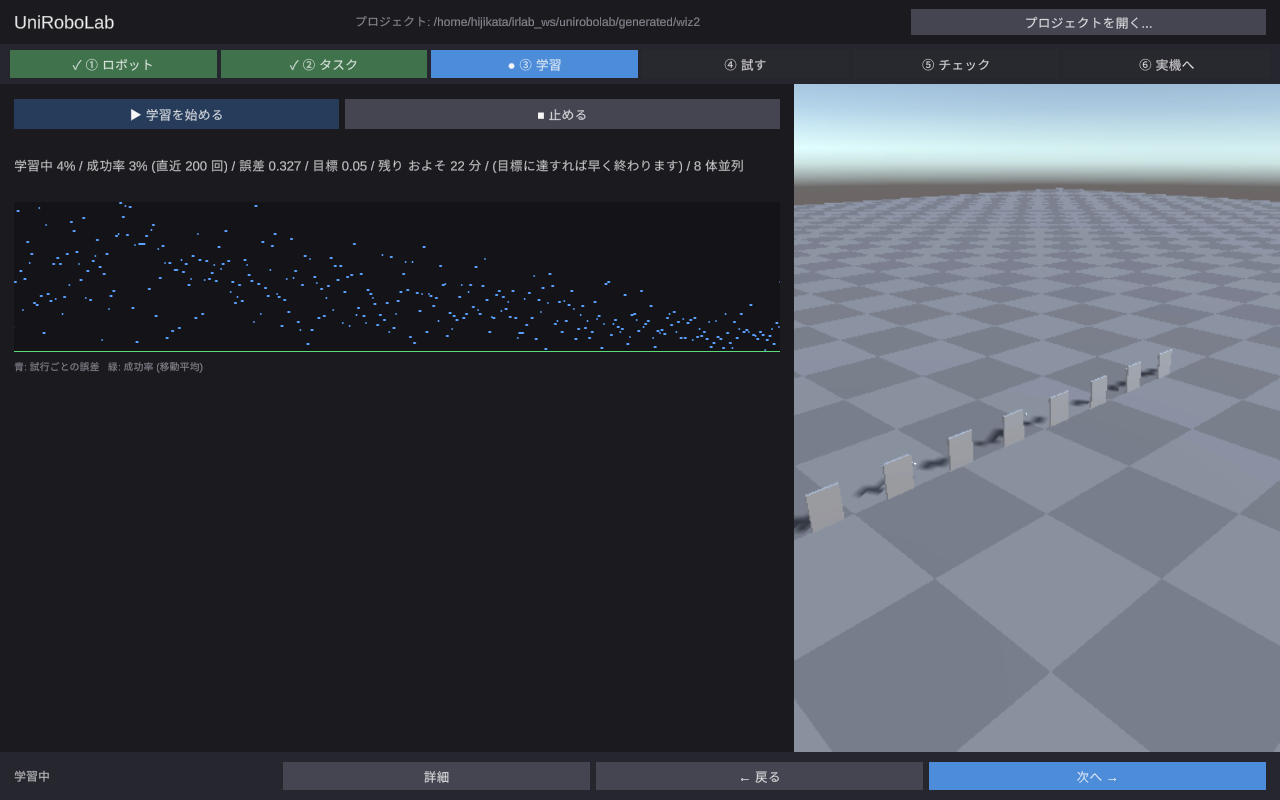
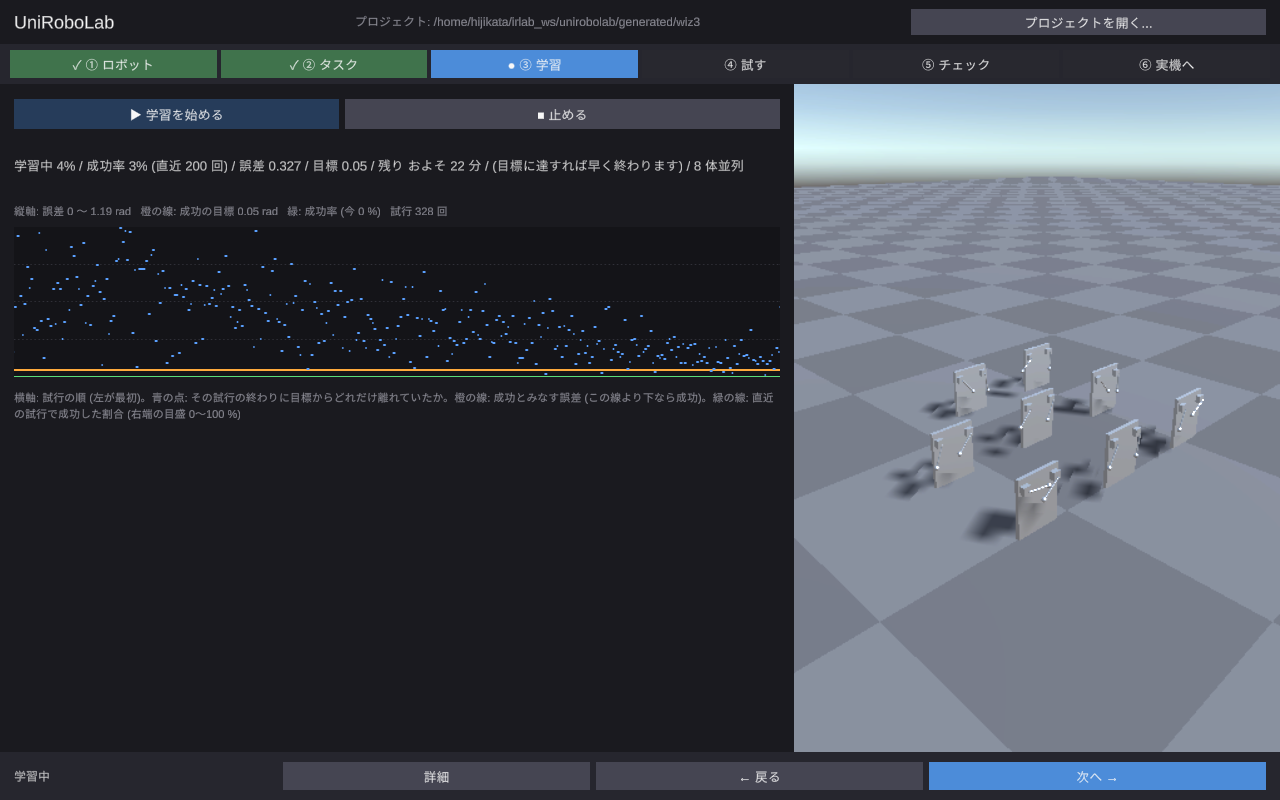
[change] 開始の位置と向きをタスク設定に (①〜⑤ で共通、既定 180°)、学習は 3×3 の格子、グラフに目標線と説明、学習器の出力を train.log に
- ② に開始の x, y, 向きの入力。プレビュー・学習 (--spawn-origin/--spawn-yaw)・試す・チェック (SPAWN_X/Y/YAW) が同じ姿勢を使う
- ③ のグラフ: 橙の線 = 成功とみなす誤差、縦軸は目標の 5 倍まで、成功率は許容誤差で判定 (関節目標でも出る)、軸の説明を上下に
- 学習器の出力を <run>/train.log に残す。起動時に入れないフェーズを指定された場合の例外を修正
- docs/tutorial.md と画面 (docs/images/tutorial2) を更新

diff --git a/unity/UniRoboLab/Assets/UniRoboLab/Scripts/PhaseTrain.cs b/unity/UniRoboLab/Assets/UniRoboLab/Scripts/PhaseTrain.cs
@@ -13,11 +13,12 @@ public class PhaseTrain : Phase
     public override string Title => Ui.T("③ 学習", "3 Train");
 
     Button m_Start, m_Stop, m_Back2;
-    TMP_Text m_Progress, m_Log, m_Hint;
+    TMP_Text m_Progress, m_Log, m_Hint, m_AxisTop, m_AxisBottom;
     RawImage m_Curve; Texture2D m_CurveTex; int m_CurvePoints;
     ExternalProcess m_Train, m_StatusProc;
     string m_RunDir; float m_StatusNextAt; bool m_Finished;
     readonly StringBuilder m_LogBuf = new StringBuilder();
+    StreamWriter m_LogFile;   // <run>/train.log: 学習器の出力を残す (失敗の原因を後で追える)
 
     public override void Build(RectTransform main, RectTransform details)
     {
@@ -27,9 +28,12 @@ public class PhaseTrain : Phase
         m_Stop = Ui.Btn(r.transform, Ui.T("■ 止める", "■ Stop"), StopTraining, 110f, 30f);
         Ui.SetBtn(m_Start, null, Ui.BtnActive);
         m_Progress = Ui.Label(Root.transform, "", 13f, Ui.Text, true, 60f);
+        m_AxisTop = Ui.Label(Root.transform, "", 11f, Ui.Muted);
         m_CurveTex = Ui.DarkTexture(560, 150);
         m_Curve = Ui.Image(Root.transform, m_CurveTex, 150f);
-        Ui.Label(Root.transform, Ui.T("青: 試行ごとの誤差   緑: 成功率 (移動平均)", "blue: error per attempt   green: success rate (moving average)"), 10f, Ui.Muted);
+        m_AxisBottom = Ui.Label(Root.transform, "", 11f, Ui.Muted, true, 46f);
+        m_AxisBottom.text = Ui.T("横軸: 試行の順 (左が最初)。青の点: その試行の終わりに目標からどれだけ離れていたか。橙の線: 成功とみなす誤差 (この線より下なら成功)。緑の線: 直近の試行で成功した割合 (右端の目盛 0〜100 %)",
+                                "x: attempts in order (first on the left). Blue dots: distance from the goal at the end of each attempt. Orange line: the error that counts as success (below it = success). Green line: share of recent attempts that succeeded (right scale 0-100 %)");
         m_Hint = Ui.Label(Root.transform, "", 12f, Ui.Warn, true, 44f);
         m_Back2 = Ui.Btn(Root.transform, Ui.T("② に戻って条件を変える", "Back to step 2 to change the task"), () => W.GoTo(1, false), 260f, 26f);
         m_Back2.gameObject.SetActive(false);
@@ -77,15 +81,23 @@ public class PhaseTrain : Phase
         cmd.Append(W.Py).Append(" -u -m unirobolab train ").Append(ExternalProcess.Quote(P.Abs(P.D.contract)))
            .Append(" --config ").Append(ExternalProcess.Quote(P.Abs(P.D.train))).Append(" --out ").Append(ExternalProcess.Quote(m_RunDir))
            .Append(" --transport direct --port ").Append(Env.LearningPort()).Append(" --n-envs ").Append(Mathf.Max(1, spec.training.n_envs))
-           .Append(" --spawn-urdf ").Append(ExternalProcess.Quote(P.Abs(P.D.urdf))).Append(" --spawn-spacing 0.6 2>&1");
+           .Append(" --spawn-urdf ").Append(ExternalProcess.Quote(P.Abs(P.D.urdf))).Append(" --spawn-spacing 0.6 --spawn-layout grid --spawn-yaw ").Append(W.StartYawRad.ToString("F5"))
+           .Append(" --spawn-origin ").Append(W.StartX.ToString("F3")).Append(' ').Append(W.StartY.ToString("F3")).Append(" 2>&1");
+        Directory.CreateDirectory(m_RunDir);
+        try { m_LogFile?.Dispose(); m_LogFile = new StreamWriter(Path.Combine(m_RunDir, "train.log"), false) { AutoFlush = true }; m_LogFile.WriteLine("$ " + cmd); } catch (Exception) { m_LogFile = null; }
         m_Train = W.Launch(cmd.ToString());
         m_Finished = false; m_CurvePoints = 0; m_StatusNextAt = 0f; m_LogBuf.Clear(); m_Hint.text = ""; m_Back2.gameObject.SetActive(false);
         m_Progress.text = Ui.T("学習を始めています...", "starting...");
         m_Start.interactable = false;
         W.Status(Ui.T("学習中", "training"));
         var cam = Camera.main != null ? Camera.main.GetComponent<LabCamera>() : null;
-        // 学習器は ROS の y 方向 (= Unity の -x) に 0.6 m 間隔で並べる。列の中央を狙う
-        if (cam != null) { cam.target = new Vector3(-0.6f * (spec.training.n_envs - 1) * 0.5f, 0.15f, 0f); cam.distance = 1.0f + 0.55f * spec.training.n_envs; }
+        // 学習器は 0.6 m 間隔の格子 (ceil(sqrt(n)) 列; ROS x = Unity z, ROS y = Unity -x) に並べる。格子の中央を狙う
+        if (cam != null)
+        {
+            int n = Mathf.Max(1, spec.training.n_envs); int cols = Mathf.CeilToInt(Mathf.Sqrt(n)); int rows = Mathf.CeilToInt(n / (float)cols);
+            cam.target = new Vector3(-W.StartY - 0.6f * (cols - 1) * 0.5f, 0.15f, W.StartX + 0.6f * (rows - 1) * 0.5f);
+            cam.distance = 1.2f + 0.7f * Mathf.Max(cols, rows);
+        }
     }
 
     public void StopTraining()
@@ -99,11 +111,13 @@ public class PhaseTrain : Phase
     {
         if (m_Train != null)
         {
-            while (m_Train.TryDequeue(out string l)) { m_LogBuf.AppendLine(l); if (m_LogBuf.Length > 6000) m_LogBuf.Remove(0, 2000); }
+            while (m_Train.TryDequeue(out string l)) { m_LogBuf.AppendLine(l); m_LogFile?.WriteLine(l); if (m_LogBuf.Length > 6000) m_LogBuf.Remove(0, 2000); }
             if (m_Log != null && m_Log.gameObject.activeInHierarchy) m_Log.text = m_LogBuf.ToString();
             if (m_Train.HasExited)
             {
+                m_Train.WaitForExit(); while (m_Train.TryDequeue(out string l2)) { m_LogBuf.AppendLine(l2); m_LogFile?.WriteLine(l2); }
                 int code = m_Train.ExitCode; m_Train = null; m_Start.interactable = true;
+                m_LogFile?.WriteLine($"[exit {code}]"); m_LogFile?.Dispose(); m_LogFile = null;
                 if (code == 0 && File.Exists(Path.Combine(m_RunDir, "policy.onnx")))
                 {
                     P.D.run_dir = P.Rel(m_RunDir); P.Stamp("run"); P.Save(); m_Finished = true;
@@ -167,12 +181,17 @@ public class PhaseTrain : Phase
         catch (IOException) { return; }
         if (err.Count == 0 || err.Count == m_CurvePoints) return;
         m_CurvePoints = err.Count;
+        TaskSpec spec = TaskSpec.Load(P.Abs(P.D.task));
+        float tol = spec.Goal0.tolerance > 0f ? spec.Goal0.tolerance : 0.05f;
+        // 成功 = 許容誤差以内 (status.py と同じ定義。CSV の success 列は地点到達の学習器だけが立てる)
+        bool anyFlag = false; foreach (float f in suc) if (f > 0f) { anyFlag = true; break; }
+        if (!anyFlag) for (int i = 0; i < suc.Count; i++) suc[i] = err[i] <= tol ? 1f : 0f;
         int win = Mathf.Max(10, err.Count / 10);
         var rate = new List<float>(err.Count); float acc = 0f;
         for (int i = 0; i < suc.Count; i++) { acc += suc[i]; if (i >= win) acc -= suc[i - win]; rate.Add(acc / Mathf.Min(win, i + 1)); }
         int w = m_CurveTex.width, h = m_CurveTex.height;
         var px = new Color32[w * h]; for (int i = 0; i < px.Length; i++) px[i] = new Color32(20, 20, 24, 255);
-        void Plot(List<float> v, Color32 c, float lo, float hi)
+        void Plot(List<float> v, Color32 c, float lo, float hi, int thick)
         {
             if (hi - lo < 1e-6f) hi = lo + 1e-6f;
             for (int x = 0; x < w; x++)
@@ -180,12 +199,21 @@ public class PhaseTrain : Phase
                 int i0 = x * v.Count / w, i1 = Mathf.Min(v.Count, (x + 1) * v.Count / w); if (i1 <= i0) i1 = i0 + 1;
                 float m = 0f; for (int i = i0; i < i1 && i < v.Count; i++) m += v[i]; m /= (i1 - i0);
                 int y = Mathf.Clamp((int)((m - lo) / (hi - lo) * (h - 1)), 0, h - 1);
-                px[y * w + x] = c; if (y > 0) px[(y - 1) * w + x] = c;
+                for (int t = 0; t < thick; t++) if (y - t >= 0) px[(y - t) * w + x] = c;
             }
         }
-        float eHi = 0f; foreach (float e in err) eHi = Mathf.Max(eHi, e);
-        Plot(rate, new Color32(90, 220, 120, 255), 0f, 1f); Plot(err, new Color32(90, 160, 255, 255), 0f, eHi);
+        // 縦軸: 誤差 0 〜 eHi。目標付近が見えるように上限は目標の 5 倍まで (それより大きい初期の誤差は上端に張り付く)
+        float eMax = 0f; foreach (float e in err) eMax = Mathf.Max(eMax, e);
+        float eHi = Mathf.Clamp(eMax, tol * 3f, tol * 5f);
+        for (int gy = 1; gy < 4; gy++) { int y = gy * h / 4; for (int x = 0; x < w; x += 3) px[y * w + x] = new Color32(50, 50, 58, 255); }   // 薄い横罫線
+        int yTol = Mathf.Clamp((int)(tol / eHi * (h - 1)), 0, h - 1);
+        for (int x = 0; x < w; x++) { px[yTol * w + x] = new Color32(255, 170, 60, 255); if (yTol + 1 < h) px[(yTol + 1) * w + x] = new Color32(255, 170, 60, 255); }
+        Plot(rate, new Color32(90, 220, 120, 255), 0f, 1f, 3); Plot(err, new Color32(90, 160, 255, 255), 0f, eHi, 2);
         m_CurveTex.SetPixels32(px); m_CurveTex.Apply();
+        bool isBase = spec.Goal0.type == "base_in_region"; string unit = isBase ? "m" : "rad";
+        float last = rate.Count > 0 ? rate[rate.Count - 1] : 0f;
+        m_AxisTop.text = Ui.T($"縦軸: 誤差 0 〜 {eHi:F2} {unit}   橙の線: 成功の目標 {tol:g} {unit}   緑: 成功率 (今 {last * 100f:F0} %)   試行 {err.Count} 回",
+                              $"y: error 0 to {eHi:F2} {unit}   orange: success target {tol:g} {unit}   green: success rate (now {last * 100f:F0} %)   {err.Count} attempts");
     }
 
     public override bool CanProceed(out string reason) { reason = ""; return true; }   // ④ は任意 (⑤ の前提は学習結果)

diff --git a/unity/UniRoboLab/Assets/UniRoboLab/Scripts/PhaseTask.cs b/unity/UniRoboLab/Assets/UniRoboLab/Scripts/PhaseTask.cs
@@ -13,7 +13,8 @@ public class PhaseTask : Phase
     TaskSpec m_Spec;
     bool m_IsBase;
     TMP_Text m_Kind, m_RangeL, m_TolL, m_TimeL, m_RMinL, m_RMaxL, m_Estimate, m_TrainText;
-    Slider m_Range, m_Tol, m_Time, m_RMin, m_RMax;
+    Slider m_Range, m_Tol, m_Time, m_RMin, m_RMax, m_Yaw;
+    TMP_InputField m_StartX, m_StartY; TMP_Text m_YawL;
     GameObject m_JointBox, m_BaseBox;
     Ui.Choice m_RangeMode;
     ExternalProcess m_Gen, m_Est;
@@ -26,7 +27,13 @@ public class PhaseTask : Phase
     {
         Root = Ui.Column(main, "Task", 6f);
         m_Kind = Ui.Label(Root.transform, "", 13f, Ui.Header);
-        Ui.Label(Root.transform, Ui.T("開始: ロボットは今の姿勢・位置から (v1 では固定)", "Start: the robot's current pose and position (fixed in v1)"), 12f, Ui.Muted);
+        Ui.Label(Root.transform, Ui.T("開始の位置と向き (ロボットはここからスタート。学習・チェックでも同じ)", "Start pose (used for training and the check as well)"), 12f, Ui.Muted);
+        var sp = Ui.Row(Root.transform, 26f);
+        Ui.Label(sp.transform, "x [m]", 12f, Ui.Text, false, 0f, 44f); m_StartX = Ui.Input(sp.transform, "0", 24f);
+        Ui.Label(sp.transform, "y [m]", 12f, Ui.Text, false, 0f, 44f); m_StartY = Ui.Input(sp.transform, "0", 24f);
+        m_YawL = Ui.Label(sp.transform, "", 12f, Ui.Text, false, 0f, 130f);
+        m_Yaw = Ui.Slider(Root.transform, -180f, 180f, 180f, v => { m_YawL.text = Ui.T($"向き {v:F0}°", $"yaw {v:F0}°"); TouchStart(); }, true);
+        m_StartX.onEndEdit.AddListener(_ => TouchStart()); m_StartY.onEndEdit.AddListener(_ => TouchStart());
         Ui.Label(Root.transform, Ui.T("終了 (成功) の条件", "Goal (success) condition"), 12f, Ui.Muted);
         // joints_near
         m_JointBox = Ui.Column(Root.transform, "Joint", 4f, 0, false);
@@ -59,6 +66,18 @@ public class PhaseTask : Phase
 
     void Touch() { m_EstAt = Time.realtimeSinceStartup + 0.6f; DrawGoal(); }
 
+    /// <summary>開始の位置・向きを仕様に書き、プレビューのロボットをそこへ置く。</summary>
+    void TouchStart()
+    {
+        if (m_Spec == null) return;
+        float.TryParse(m_StartX.text, out float x); float.TryParse(m_StartY.text, out float y);
+        m_Spec.start.@base.xy = new[] { x, y }; m_Spec.start.@base.yaw_deg = new[] { m_Yaw.value, m_Yaw.value };
+        m_Spec.Save(P.Abs(P.D.task));
+        var buf = new List<GameObject>(); W.Sim.GetEntitiesSnapshot(buf);
+        foreach (GameObject e in buf) if (e != null) { W.PlaceSpawned(e.name, x, y, m_Yaw.value); break; }
+        DrawGoal();
+    }
+
     public override bool CanEnter(out string reason)
     {
         reason = Ui.T("先に ① でロボットを読み込んでください", "load the robot in step 1 first");
@@ -79,6 +98,9 @@ public class PhaseTask : Phase
         if (m_IsBase) { m_RMin.value = g.region.r_min; m_RMax.value = g.region.r_max; }
         else { bool manual = g.range != null && g.range.Length == 2; m_RangeMode.Set(manual ? 1 : 0); if (manual) m_Range.value = Mathf.Max(Mathf.Abs(g.range[0]), Mathf.Abs(g.range[1])); }
         m_Tol.onValueChanged.Invoke(m_Tol.value); m_Time.onValueChanged.Invoke(m_Time.value);
+        var sb = m_Spec.start.@base;
+        m_StartX.text = (sb.xy != null && sb.xy.Length > 0 ? sb.xy[0] : 0f).ToString("F2"); m_StartY.text = (sb.xy != null && sb.xy.Length > 1 ? sb.xy[1] : 0f).ToString("F2");
+        m_Yaw.SetValueWithoutNotify(sb.yaw_deg != null && sb.yaw_deg.Length > 0 ? sb.yaw_deg[0] : 180f); m_YawL.text = Ui.T($"向き {m_Yaw.value:F0}°", $"yaw {m_Yaw.value:F0}°");
         DrawGoal();
         RefreshDetails();
         W.Status(Ui.T("成功の条件と制限時間を決めて「次へ」", "Set the success condition and the time limit, then Next"));
@@ -148,10 +170,11 @@ public class PhaseTask : Phase
         if (!m_IsBase) { if (m_RingIn != null) { m_RingIn.enabled = false; m_RingOut.enabled = false; } DrawJointArcs(); return; }
         foreach (LineRenderer a in m_Arcs) a.enabled = false;
         if (m_RingIn == null) { m_RingIn = MakeRing("GoalRingIn"); m_RingOut = MakeRing("GoalRingOut"); }
-        Ring(m_RingIn, m_RMin.value); Ring(m_RingOut, m_RMax.value);
+        Vector3 c0 = new Vector3(-W.StartY, 0f, W.StartX);
+        Ring(m_RingIn, m_RMin.value, c0); Ring(m_RingOut, m_RMax.value, c0);
         m_RingIn.enabled = m_RingOut.enabled = true;
         var cam = Camera.main != null ? Camera.main.GetComponent<LabCamera>() : null;
-        if (cam != null) { cam.target = Vector3.zero; cam.distance = Mathf.Max(3f, m_RMax.value * 2.2f); }
+        if (cam != null) { cam.target = c0; cam.distance = Mathf.Max(3f, m_RMax.value * 2.2f); }
     }
 
     static LineRenderer MakeRing(string name)
@@ -164,10 +187,10 @@ public class PhaseTask : Phase
         return lr;
     }
 
-    static void Ring(LineRenderer lr, float r)
+    static void Ring(LineRenderer lr, float r, Vector3 c)
     {
         const int n = 64; lr.positionCount = n;
-        for (int i = 0; i < n; i++) { float a = i * Mathf.PI * 2f / n; lr.SetPosition(i, new Vector3(Mathf.Cos(a) * r, 0.02f, Mathf.Sin(a) * r)); }
+        for (int i = 0; i < n; i++) { float a = i * Mathf.PI * 2f / n; lr.SetPosition(i, c + new Vector3(Mathf.Cos(a) * r, 0.02f, Mathf.Sin(a) * r)); }
     }
 
     /// <summary>プレビューのロボット (① でスポーン) の回転関節ごとに、目標角の範囲を弧で描く。</summary>

diff --git a/unity/UniRoboLab/Assets/UniRoboLab/Scripts/LabWizard.cs b/unity/UniRoboLab/Assets/UniRoboLab/Scripts/LabWizard.cs
@@ -34,6 +34,30 @@ public class LabWizard : MonoBehaviour
 
     public enum PreviewMode { Side, Large, Hidden }
 
+    /// <summary>開始の位置と向き (task.json の start.base、ROS 座標: x 前, y 左, yaw 反時計回り [deg])。①〜⑤ で共通。</summary>
+    public float StartX { get { var b = TaskSpec.Load(P.Abs(P.D.task)).start.@base; return b.xy != null && b.xy.Length > 0 ? b.xy[0] : 0f; } }
+    public float StartY { get { var b = TaskSpec.Load(P.Abs(P.D.task)).start.@base; return b.xy != null && b.xy.Length > 1 ? b.xy[1] : 0f; } }
+    public float StartYawDeg { get { var b = TaskSpec.Load(P.Abs(P.D.task)).start.@base; return b.yaw_deg != null && b.yaw_deg.Length > 0 ? b.yaw_deg[0] : 180f; } }
+    public float StartYawRad => StartYawDeg * Mathf.Deg2Rad;
+
+    /// <summary>GUI でスポーンしたロボットを開始の位置と向きへ置く (核の GUI スポーンは姿勢を取らない)。</summary>
+    public void PlaceSpawned(string entityName) => PlaceSpawned(entityName, StartX, StartY, StartYawDeg);
+
+    public void PlaceSpawned(string entityName, float rosX, float rosY, float yawDeg)
+    {
+        var buf = new List<GameObject>(); Sim.GetEntitiesSnapshot(buf);
+        Vector3 pos = new Vector3(-rosY, 0f, rosX);                 // ROS (x, y) → Unity (-y, ·, x)
+        Quaternion rot = Quaternion.Euler(0f, -yawDeg, 0f);        // ROS の yaw (反時計回り) → Unity の y 回転
+        foreach (GameObject e in buf)
+        {
+            if (e == null || e.name != entityName) continue;
+            foreach (ArticulationBody ab in e.GetComponentsInChildren<ArticulationBody>())
+                if (ab.isRoot) { Vector3 p = ab.transform.position; ab.TeleportRoot(new Vector3(pos.x, p.y, pos.z), rot); return; }
+            e.transform.SetPositionAndRotation(new Vector3(pos.x, e.transform.position.y, pos.z), rot);
+            return;
+        }
+    }
+
     [RuntimeInitializeOnLoadMethod(RuntimeInitializeLoadType.AfterSceneLoad)]
     static void Bootstrap()
     {
@@ -141,7 +165,9 @@ public class LabWizard : MonoBehaviour
         if (index != m_Current && index > 0 && !m_Phases[index].CanEnter(out string why))
         {
             if (!silent) Status(why, Ui.Warn);
-            return;
+            if (m_Current >= 0) return;
+            index = ResumePhase();   // 起動時に入れないフェーズを指定された: 前提の揃うところへ
+            if (index > 0 && !m_Phases[index].CanEnter(out _)) index = 0;
         }
         if (m_Current >= 0 && m_Root != null) { m_Phases[m_Current].Leave(); m_Phases[m_Current].Root.SetActive(false); if (m_Phases[m_Current].DetailsRoot != null) m_Phases[m_Current].DetailsRoot.SetActive(false); }
         m_Current = index;
@@ -160,7 +186,7 @@ public class LabWizard : MonoBehaviour
 
     public void RefreshStepper()
     {
-        if (m_Root == null) return;
+        if (m_Root == null || m_Current < 0) return;
         m_ProjectLabel.text = Ui.T("プロジェクト: ", "project: ") + P.Dir;
         for (int i = 0; i < m_Phases.Count; i++)
         {

diff --git a/unity/UniRoboLab/Assets/UniRoboLab/Scripts/TaskSpec.cs b/unity/UniRoboLab/Assets/UniRoboLab/Scripts/TaskSpec.cs
@@ -5,7 +5,7 @@ using UnityEngine;
 
 /// <summary>task.json (docs/ux-flow.md v2.1、python/src/unirobolab/taskspec.py と同じ形)。GUI が書く唯一の JSON。</summary>
 [Serializable] public class SpecRobot { public string urdf = ""; public string name = ""; public string @namespace = ""; public string command_mode = "joint_state_topic"; public string controller = ""; public string estop_topic = ""; }
-[Serializable] public class SpecBase { public float[] xy = { 0f, 0f }; public float[] yaw_deg = { 0f, 0f }; }
+[Serializable] public class SpecBase { public float[] xy = { 0f, 0f }; public float[] yaw_deg = { 180f, 180f }; /* 既定: 正面がカメラを向く */ }
 [Serializable] public class SpecStart { public string joints = "zero"; public SpecBase @base = new SpecBase(); }
 [Serializable] public class SpecRegion { public string shape = "ring"; public float[] center = { 0f, 0f }; public float r_min = 1f; public float r_max = 2.5f; public float[] angle_deg = { -180f, 180f }; public float[] size = { 1f, 1f }; public float radius = 0.5f; }
 [Serializable] public class SpecGoal { public string type = "joints_near"; public float[] range = new float[0]; public float tolerance = 0.05f; public SpecRegion region = new SpecRegion(); public bool stop_at_goal = false; }

diff --git a/unity/UniRoboLab/Assets/UniRoboLab/Scripts/PhaseCheck.cs b/unity/UniRoboLab/Assets/UniRoboLab/Scripts/PhaseCheck.cs
@@ -103,7 +103,7 @@ public class PhaseCheck : Phase
         foreach (GameObject e in buf) if (e != null) W.Sim.TryDeleteEntityByName(e.name);
         if (m_SavedScale < 0f) { m_SavedScale = SimulationControl.ConfiguredTimeScale; SimulationControl.ConfiguredTimeScale = 1f; if (Time.timeScale > 1f) Time.timeScale = 1f; }
         string ns = string.IsNullOrEmpty(P.D.ns) ? "robot" : P.D.ns;
-        string envs = $"CONTRACT={ExternalProcess.Quote(contract)} ONNX={ExternalProcess.Quote(onnx)} URDF={ExternalProcess.Quote(urdf)} TASK={ExternalProcess.Quote(task ?? "")} OUT={ExternalProcess.Quote(outDir)} NS={ExternalProcess.Quote(ns)}";
+        string envs = $"CONTRACT={ExternalProcess.Quote(contract)} ONNX={ExternalProcess.Quote(onnx)} URDF={ExternalProcess.Quote(urdf)} TASK={ExternalProcess.Quote(task ?? "")} OUT={ExternalProcess.Quote(outDir)} NS={ExternalProcess.Quote(ns)} SPAWN_YAW={W.StartYawRad:F5} SPAWN_X={W.StartX:F3} SPAWN_Y={W.StartY:F3}";
         string cmd = Env.Ros2 == "container"
             ? $"docker exec {ContainerName} env {envs} bash {ExternalProcess.Quote(Path.Combine(Env.RepoRoot, "scripts", "check_runner.sh"))} 2>&1"
             : $"env {envs} bash {ExternalProcess.Quote(Path.Combine(Env.RepoRoot, "scripts", "check_runner.sh"))} 2>&1";

diff --git a/unity/UniRoboLab/Assets/UniRoboLab/Scripts/PhaseTry.cs b/unity/UniRoboLab/Assets/UniRoboLab/Scripts/PhaseTry.cs
@@ -56,7 +56,7 @@ public class PhaseTry : Phase
         foreach (GameObject e in buf) if (e != null) { m_Entity = e.name; break; }
         if (string.IsNullOrEmpty(m_Entity) && W.Sim.CanSpawnFromGui)
         {
-            if (W.Sim.TrySpawnRobotFromUrdf(P.Abs(P.D.urdf), out string name, out _)) m_Entity = name;
+            if (W.Sim.TrySpawnRobotFromUrdf(P.Abs(P.D.urdf), out string name, out _)) { m_Entity = name; W.PlaceSpawned(name); }
         }
         var cam = Camera.main != null ? Camera.main.GetComponent<LabCamera>() : null;
         Transform root = EntityRoot();

diff --git a/unity/UniRoboLab/Assets/UniRoboLab/Scripts/PhaseRobot.cs b/unity/UniRoboLab/Assets/UniRoboLab/Scripts/PhaseRobot.cs
@@ -83,7 +83,7 @@ public class PhaseRobot : Phase
     {
         if (W.Sim == null || !W.Sim.CanSpawnFromGui) return;
         if (!string.IsNullOrEmpty(m_SpawnedName)) W.Sim.TryDeleteEntityByName(m_SpawnedName);
-        if (W.Sim.TrySpawnRobotFromUrdf(urdf, out string name, out string err)) { m_SpawnedName = name; FrameCamera(); }
+        if (W.Sim.TrySpawnRobotFromUrdf(urdf, out string name, out string err)) { m_SpawnedName = name; W.PlaceSpawned(name); FrameCamera(); }
         else Debug.LogWarning("[PhaseRobot] spawn: " + err);
     }
 

diff --git a/docs/ux-flow.md b/docs/ux-flow.md
@@ -147,6 +147,11 @@ v2 → v2.1 の変更(docs/reviews/2026-09-16-ux-v2-review.md と議論の反映
 - **学習時間の目安**を体数・許容誤差・範囲から出し、根拠を 1 行添える(問題 11)。
 - 「次へ」で仕様(`task.json`)を保存し、契約と学習設定を生成して ③ へ。②で勝手に学習は始めない。
 - 把持など接触を伴う作業は、条件は書けても学習が難しい。v1 では対象外と画面に明記する。
+- **v1 の制約と次の段**: v1 の原始条件は既存の学習器 (joint_target / base_target) に写像するだけなので、
+  固定基体 = 関節目標、移動基体 = 地点到達、に固定される。次の段では学習器側に「条件から観測・報酬・
+  終了を組み立てる環境」を足し、原始条件を増やす (手先が点や領域の近く、リンクが領域内、基体の向き)。
+  そうなれば腕に「手先を所定の場所へ」、台車に「向きも合わせて停止」のような条件を、基体の種類に
+  関係なく 3D で置ける。
 
 ### ③ 学習
 
